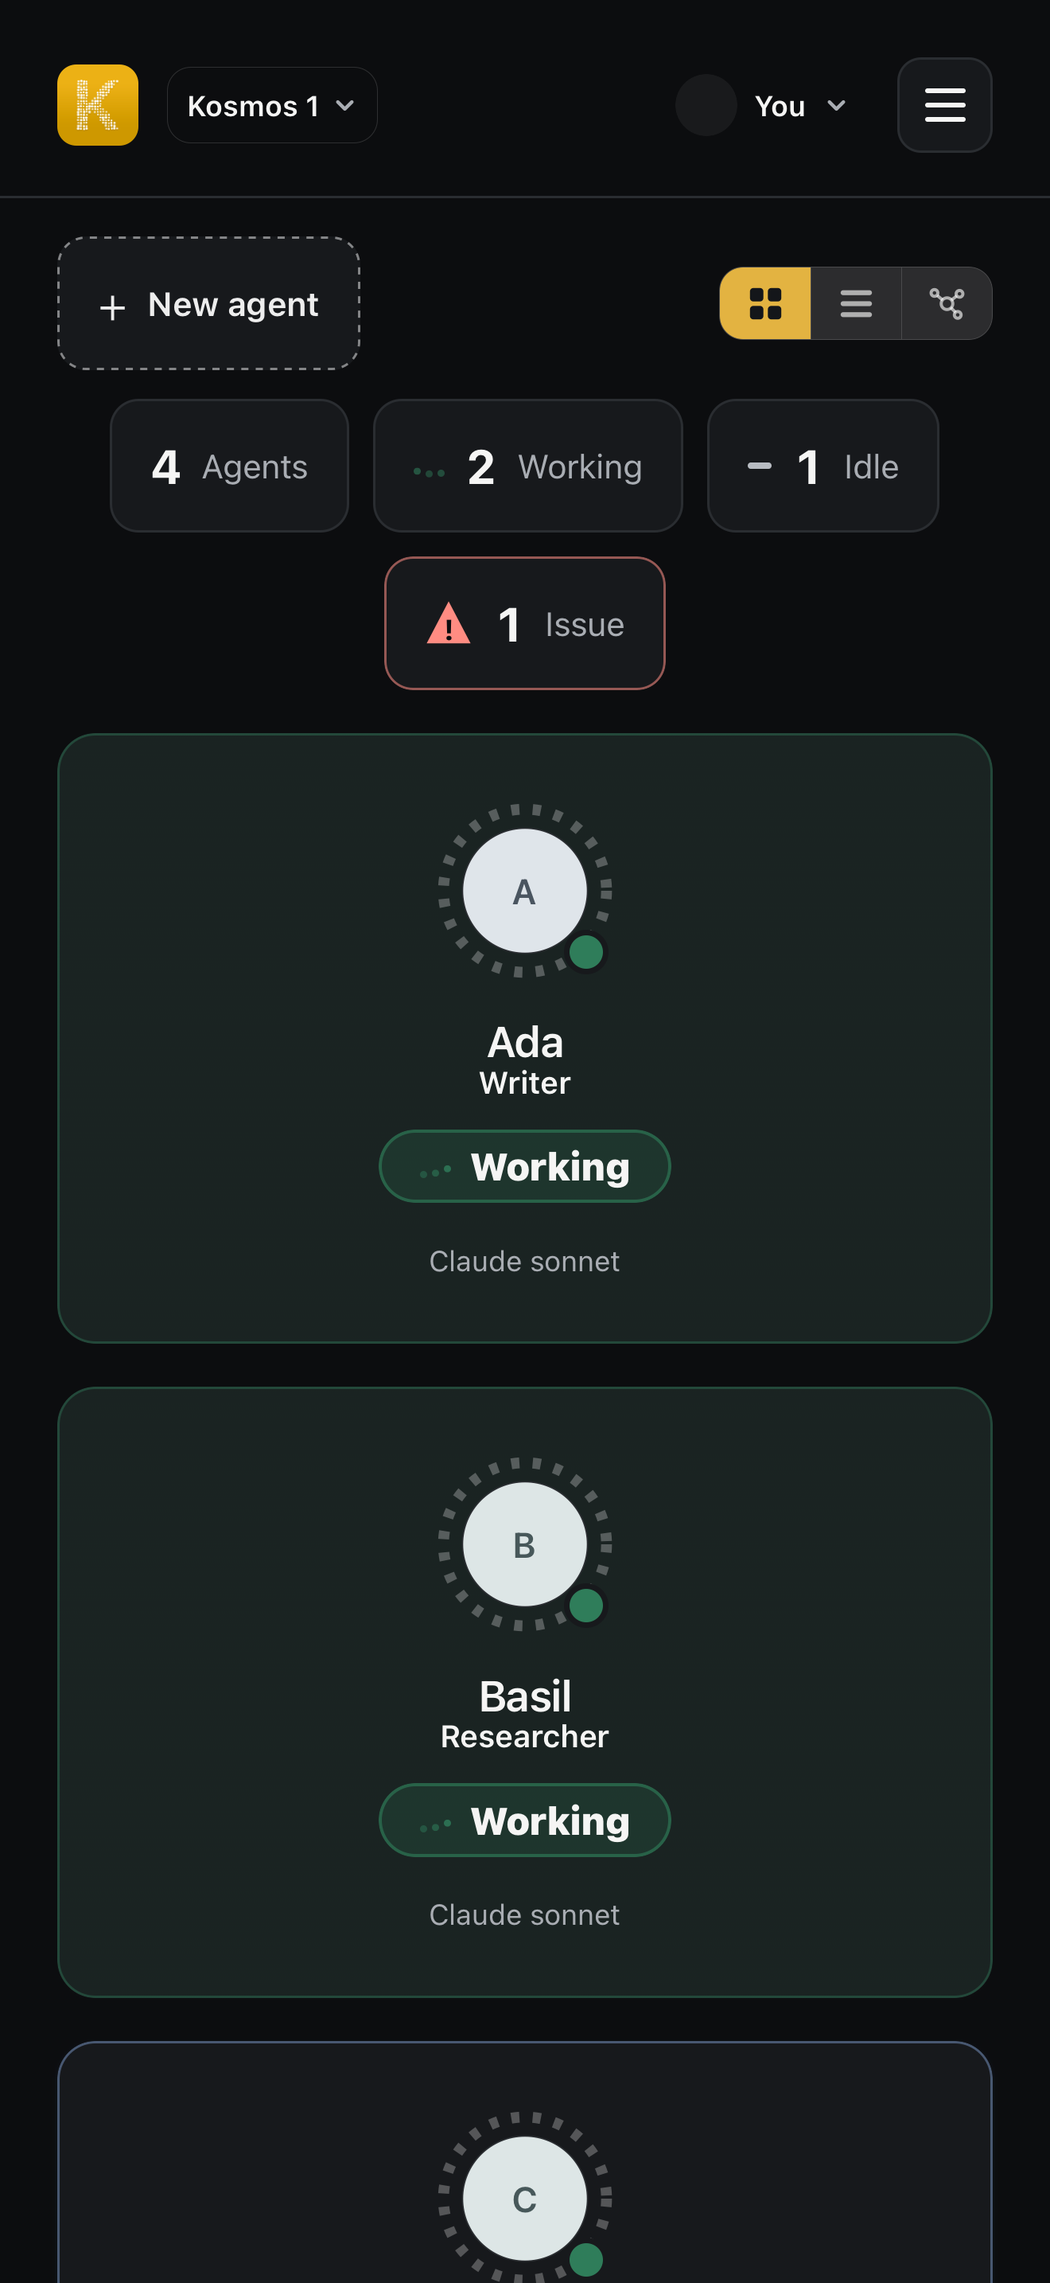
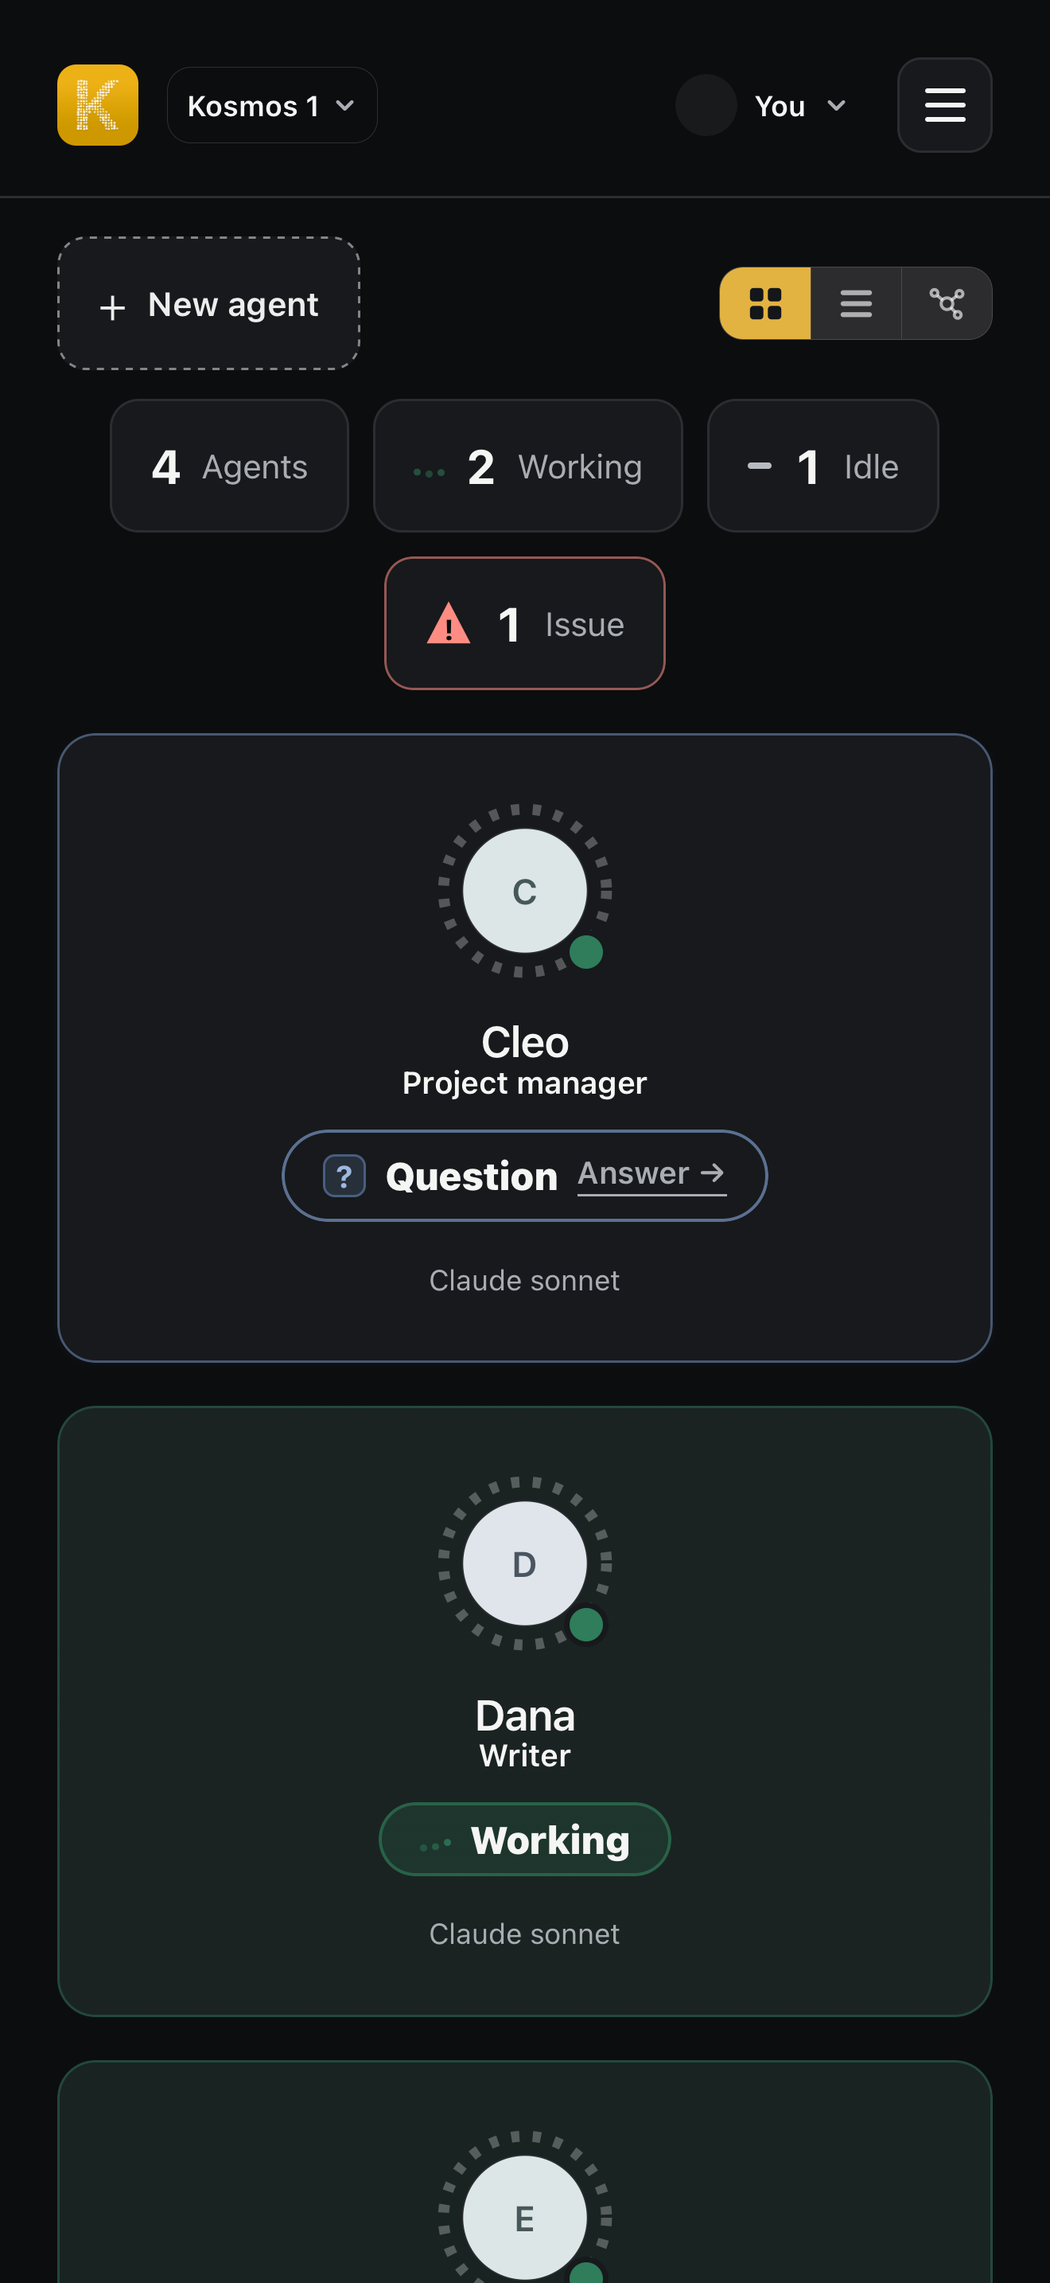
ios-store-assets-718 -- Cleo's question leads the home shot; re-shot with Liu Kang's m1064 fixes
The board lists agents by id, so the store fleet's asker now sorts first
(Cleo, Dana, Eli, Farah) and the screens take their DM and needs-you
agents from the data set; the sample set is unchanged. The browser-checks
slice and both leak arms pass against the changed tool.

diff --git a/docs/browser-checks/mobile-shots.js b/docs/browser-checks/mobile-shots.js
@@ -114,13 +114,13 @@ const SCREENS = [
     await page.click('button.vt[data-layout="list"][aria-label="Show agents as a list"]');
     await page.waitForSelector('button.vt[data-layout="list"][aria-pressed="true"][aria-label="Show agents as a list"]', { timeout: 5000 });
   } },
-  { name: 'agent-page', owner: 'Raiden', go: async (page) => {
-    await at(page, '?agent=ada');
+  { name: 'agent-page', owner: 'Raiden', go: async (page, data) => {
+    await at(page, '?agent=' + data.chatAgent);
     await page.waitForSelector('#panel-detail', { state: 'visible', timeout: 5000 });
   } },
   // Scorpion: an agent's chat.
-  { name: 'agent-chat', owner: 'Scorpion', go: async (page) => {
-    await at(page, '?agent=ada');
+  { name: 'agent-chat', owner: 'Scorpion', go: async (page, data) => {
+    await at(page, '?agent=' + data.chatAgent);
     await page.locator('#d-nav button[data-go="talk"]').first().click({ timeout: 5000 });
     await page.waitForSelector('#d-sec-talk', { state: 'visible', timeout: 5000 });
   } },
@@ -132,15 +132,15 @@ const SCREENS = [
     await page.waitForSelector('#pj-one-view', { state: 'visible', timeout: 8000 });
     await page.evaluate(() => { const r = document.querySelector('#pj-room'); if (r) r.scrollIntoView({ block: 'start' }); });
   } },
-  { name: 'ask-waiting', owner: 'Kano', go: async (page) => {
+  { name: 'ask-waiting', owner: 'Kano', go: async (page, data) => {
     // The board re-renders cards on its tick, so scroll inside the page.
-    await page.waitForSelector('.acard[data-agent="cleo"]', { timeout: 5000 });
-    await page.evaluate(() => document.querySelector('.acard[data-agent="cleo"]').scrollIntoView({ block: 'start' }));
+    await page.waitForSelector(`.acard[data-agent="${data.askAgent}"]`, { timeout: 5000 });
+    await page.evaluate((a) => document.querySelector(`.acard[data-agent="${a}"]`).scrollIntoView({ block: 'start' }), data.askAgent);
   } },
   /* Where a push tap lands: the needs-you agent's page, shot once it has
      settled (the conversation scrolls to the top after load). */
-  { name: 'push-landing', owner: 'Kano', go: async (page) => {
-    await at(page, '?tab=detail&agent=cleo');
+  { name: 'push-landing', owner: 'Kano', go: async (page, data) => {
+    await at(page, '?tab=detail&agent=' + data.askAgent);
     await page.waitForSelector('#panel-detail', { state: 'visible', timeout: 5000 });
     await page.waitForTimeout(1600);
   } },
@@ -183,24 +183,24 @@ const SCREENS = [
     await at(page, '?first-run=1');
     await page.waitForSelector('#firstrun', { state: 'visible', timeout: 5000 });
   } },
-  { name: 'agent-files', owner: 'unowned', go: async (page) => {
-    await at(page, '?tab=detail&agent=ada');
+  { name: 'agent-files', owner: 'unowned', go: async (page, data) => {
+    await at(page, '?tab=detail&agent=' + data.chatAgent);
     await page.waitForSelector('#d-files-list .pj-doc', { state: 'visible', timeout: 8000 });
     await page.evaluate(() => document.getElementById('d-files').scrollIntoView({ block: 'start' }));
   } },
-  { name: 'agent-files-all', owner: 'unowned', go: async (page) => {
-    await at(page, '?tab=detail&agent=ada');
+  { name: 'agent-files-all', owner: 'unowned', go: async (page, data) => {
+    await at(page, '?tab=detail&agent=' + data.chatAgent);
     await page.waitForSelector('#d-files-all', { state: 'visible', timeout: 8000 });
     await page.click('#d-files-all');
     await page.waitForSelector('#d-filesall-list .pj-doc', { state: 'visible', timeout: 5000 });
   } },
-  { name: 'agent-profile', owner: 'unowned', go: async (page) => {
-    await at(page, '?tab=detail&agent=ada');
+  { name: 'agent-profile', owner: 'unowned', go: async (page, data) => {
+    await at(page, '?tab=detail&agent=' + data.chatAgent);
     await page.locator('#d-nav button[data-go="profile"]').first().click({ timeout: 5000 });
     await page.waitForSelector('#d-sec-profile', { state: 'visible', timeout: 5000 });
   } },
-  { name: 'agent-instructions', owner: 'unowned', go: async (page) => {
-    await at(page, '?tab=detail&agent=ada');
+  { name: 'agent-instructions', owner: 'unowned', go: async (page, data) => {
+    await at(page, '?tab=detail&agent=' + data.chatAgent);
     await page.locator('#d-nav button[data-go="instr"]').first().click({ timeout: 5000 });
     await page.waitForSelector('#d-sec-instr', { state: 'visible', timeout: 5000 });
   } },
@@ -268,17 +268,24 @@ const LONG_REPLY = 'Here is the plan for tomorrow, in order. First I will finish
    buying the app see. Same claims as the sample, so every screen's `go` works
    unchanged; four agents, each in a state a customer should see (two working,
    one needing you, one idle), nothing stopped and nothing overlong. */
-/* Cleo first: the board lists cards in this order, and the agent waiting on
-   you is the one the first store shot must show above the fold. */
+/* The board lists agents by id, alphabetically (engine/status.js), and the agent
+   waiting on you is the one the first store shot must show above the fold, so
+   the asker's id sorts first. */
 const STORE_AGENTS = [
   { claim: 'cleo', title: '', name: 'Cleo', role: 'Project manager' },
-  { claim: 'ada', title: '⠋ Writing the product copy for the spring catalogue', name: 'Ada', role: 'Writer' },
-  { claim: 'basil', title: '⠙ Comparing supplier prices for the linen range', name: 'Basil', role: 'Researcher' },
-  { claim: 'dmitri', title: '', name: 'Dmitri', role: 'Bookkeeper' },
+  { claim: 'dana', title: '⠋ Writing the product copy for the spring catalogue', name: 'Dana', role: 'Writer' },
+  { claim: 'eli', title: '⠙ Comparing supplier prices for the linen range', name: 'Eli', role: 'Researcher' },
+  { claim: 'farah', title: '', name: 'Farah', role: 'Bookkeeper' },
 ];
 const DATA_SETS = {
   sample: {
     agents: AGENTS,
+    chatAgent: 'ada',   // the DM, files and profile screens
+    askAgent: 'cleo',   // the needs-you question and the push landing
+    projectAgents: ['ada', 'basil', 'cleo'],
+    room: [['cleo', [], 'Kick-off: the catalogue goes to print on the 3rd. Ada has copy, Basil has research, I have the printer.'],
+      ['basil', [], 'Competitor prices are in the shared sheet, tab "March". Two of them undercut us on the linen range by about 8%.'],
+      ['ada', ['cleo'], 'Copy for pages 1-8 is done. Pages 9-12 need the new photos before I can caption them, so I am parked on those until Thursday.']],
     chat: [
       ['you', 'Morning Ada. What is left on the catalogue?'],
       ['ada', 'Morning! Three things, and none of them are blocked.'],
@@ -290,15 +297,21 @@ const DATA_SETS = {
   },
   store: {
     agents: STORE_AGENTS,
+    chatAgent: 'dana',
+    askAgent: 'cleo',
+    projectAgents: ['dana', 'eli', 'cleo'],
+    room: [['cleo', [], 'Kick-off: the catalogue goes to print on the 3rd. Dana has copy, Eli has research, I have the printer.'],
+      ['eli', [], 'Competitor prices are in the shared sheet, tab "March". Two of them undercut us on the linen range by about 8%.'],
+      ['dana', ['cleo'], 'Copy for pages 1 to 8 is done. Pages 9 to 12 need the new photos before I can caption them, so I am parked on those until Thursday.']],
     chat: [
-      ['you', 'Morning Ada. How is the catalogue copy coming along?'],
-      ['ada', 'Pages 1 to 8 are written and checked against the price sheet.'],
+      ['you', 'Morning Dana. How is the catalogue copy coming along?'],
+      ['dana', 'Pages 1 to 8 are written and checked against the price sheet.'],
       ['you', 'Great. What is left?'],
-      ['ada', 'Pages 9 to 12 need the new photos before I can caption them. The shoot is on Thursday, so I will have the full draft to you on Friday morning.'],
+      ['dana', 'Pages 9 to 12 need the new photos before I can caption them. The shoot is on Thursday, so I will have the full draft to you on Friday morning.'],
       ['you', 'Perfect, thank you.'],
     ],
     ask: 'The printer sent two quotes for the catalogue: $1,240 in five working days, or $1,610 in two. Shall I accept the cheaper one?',
-    secondProject: { name: 'Quarterly accounts', agents: ['dmitri'], description: 'Close the quarter and send the accounts to the accountant.' },
+    secondProject: { name: 'Quarterly accounts', agents: ['farah'], description: 'Close the quarter and send the accounts to the accountant.' },
     projectDescription: 'Get the spring catalogue written, priced, photographed and to the printer by the 3rd.',
     /* A Mac that is set up, which the empty sandbox is not: each agent gets a
        launch job and its own folder with instructions, and your messages were
@@ -308,7 +321,7 @@ const DATA_SETS = {
     setUp: true,
     askInProject: true,
     /* Made from the screen, as a person makes a project, so the room does not open on
-       "Made by an agent or another program". And Ada's replies already read: the chat
+       "Made by an agent or another program". And the chat agent's replies already read: the chat
        screen marks them read on the board, so otherwise whichever theme is shot first
        shows an unread count and the other does not. */
     madeOnScreen: true,
@@ -342,7 +355,7 @@ function seedFiles(roots) {
   fs.writeFileSync(path.join(roots.DATA, 'fake-screen'), fleet.SCREEN && fleet.SCREEN.idle ? fleet.SCREEN.idle : 'Worked for 1m 02s\n> \n');
   const store = require(path.join(REPO, 'engine', 'store'));
   for (const a of AGENTS) {
-    const role = a.claim === 'ada' && LEAK_CONTROL === 'page' ? a.role + ', ' + PLANTED_EMAIL : a.role;
+    const role = a.claim === DATA.chatAgent && LEAK_CONTROL === 'page' ? a.role + ', ' + PLANTED_EMAIL : a.role;
     store.writeProfile(a.claim, { displayName: a.name, role });
   }
   require(path.join(REPO, 'engine', 'firstrun')).complete();
@@ -355,7 +368,7 @@ function seedFiles(roots) {
   const landed = (r, what) => { if (r && r.recorded === false) throw new Error('the seed could not write ' + what + ': ' + r.because); };
   DATA.chat.forEach(([who, text], i) => {
     const mine = who === 'you' ? (DATA.setUp ? { delivery: { state: 'placed' } } : {}) : { from: who };
-    landed(chat.appendMessage(chat.DIRECT, 'ada', { text, at: stamp(i + 1), ...mine }), "Ada's chat");
+    landed(chat.appendMessage(chat.DIRECT, DATA.chatAgent, { text, at: stamp(i + 1), ...mine }), 'the DM');
   });
   if (DATA.setUp) {
     const create = require(path.join(REPO, 'engine', 'create'));
@@ -375,7 +388,7 @@ function seedFiles(roots) {
   /* Ada's Files folder, for the agent-files screens: more rows than the
      agent page shows (AGENT_FILES_SHOWN, 10, so View All appears), one with
      a long name. */
-  const adaFiles = require(path.join(REPO, 'engine', 'dmfiles')).filesDir('ada');
+  const adaFiles = require(path.join(REPO, 'engine', 'dmfiles')).filesDir(DATA.chatAgent);
   fs.mkdirSync(adaFiles, { recursive: true });
   const fileNames = ['catalogue-copy-pages-1-to-8-final-reviewed-by-cleo.docx', 'prices.xlsx', 'photographer-brief.pdf',
     'notes.md', 'cover.png', 'linen-range.csv', 'spring-2026-print-schedule.pdf', 'draft-2.docx',
@@ -385,7 +398,7 @@ function seedFiles(roots) {
     const t = new Date(t0 + i * 60e3);
     fs.utimesSync(path.join(adaFiles, f), t, t);
   });
-  landed(require(path.join(REPO, 'engine', 'selfreport')).record('cleo', {
+  landed(require(path.join(REPO, 'engine', 'selfreport')).record(DATA.askAgent, {
     state: 'needs_you', because: DATA.ask,
   }), "Cleo's needs-you state");
 }
@@ -483,22 +496,20 @@ async function seed(base, roots) {
     if (!r.ok) throw new Error('seed ' + p + ' answered ' + r.status);
     return r.json().catch(() => ({}));
   };
-  const made = await post('/api/projects', { name: 'Launch the spring catalogue', agents: ['ada', 'basil', 'cleo'],
+  const made = await post('/api/projects', { name: 'Launch the spring catalogue', agents: DATA.projectAgents,
     ...(DATA.projectDescription ? { description: DATA.projectDescription } : {}) });
   const pid = made.project && made.project.id;
   if (!pid) throw new Error('seed: the board made no project');
   for (const s2 of ['Draft the product copy for every page', 'Check the prices against the spreadsheet', 'Book the photographer']) {
-    await post('/api/project/' + pid + '/tasks', { sentence: s2, who: 'ada' });
+    await post('/api/project/' + pid + '/tasks', { sentence: s2, who: DATA.chatAgent });
   }
   await post('/api/projects', DATA.secondProject);
   const t0 = Date.now() - 1800e3;
   const stamp = (min) => new Date(t0 + min * 60e3).toISOString();
   const lines = [
-    { kind: 'post', id: 'm1', project: pid, from: 'cleo', to: [], text: 'Kick-off: the catalogue goes to print on the 3rd. Ada has copy, Basil has research, I have the printer.', at: stamp(1), outcomes: {} },
-    { kind: 'post', id: 'm2', project: pid, from: 'basil', to: [], text: 'Competitor prices are in the shared sheet, tab "March". Two of them undercut us on the linen range by about 8%.', at: stamp(4), outcomes: {} },
-    { kind: 'post', id: 'm3', project: pid, from: 'ada', to: ['cleo'], text: 'Copy for pages 1-8 is done. Pages 9-12 need the new photos before I can caption them, so I am parked on those until Thursday.', at: stamp(9), outcomes: {} },
-    { kind: 'reaction', project: pid, of: 'm3', emoji: '👍', op: 'add', from: 'cleo', at: stamp(10) },
-    { kind: 'reaction', project: pid, of: 'm2', emoji: '🔥', op: 'add', from: 'ada', at: stamp(11) },
+    ...DATA.room.map(([from, to, text], i) => ({ kind: 'post', id: 'm' + (i + 1), project: pid, from, to, text, at: stamp([1, 4, 9][i]), outcomes: {} })),
+    { kind: 'reaction', project: pid, of: 'm3', emoji: '👍', op: 'add', from: DATA.askAgent, at: stamp(10) },
+    { kind: 'reaction', project: pid, of: 'm2', emoji: '🔥', op: 'add', from: DATA.chatAgent, at: stamp(11) },
   ];
   /* The log lives in the store's own root (engine/messages.js: store.ROOT, which is
      DATA/<app>), not at the top of DATA: written there, the room showed no posts at all. */
@@ -506,12 +517,12 @@ async function seed(base, roots) {
   fs.appendFileSync(path.join(storeRoot, 'messages.jsonl'), lines.map((l) => JSON.stringify(l)).join('\n') + '\n');
   /* The store set's question names its project, as an agent on a project would, so it
      lights that project rather than counting as a needs-you with no project. */
-  if (DATA.dmRead) await post('/api/agent/ada/seen');
+  if (DATA.dmRead) await post('/api/agent/' + DATA.chatAgent + '/seen');
   if (DATA.askInProject) {
-    const r = require(path.join(REPO, 'engine', 'selfreport')).record('cleo', { state: 'needs_you', because: DATA.ask, project: pid });
+    const r = require(path.join(REPO, 'engine', 'selfreport')).record(DATA.askAgent, { state: 'needs_you', because: DATA.ask, project: pid });
     if (r && r.recorded === false) throw new Error('the seed could not write Cleo\'s needs-you state: ' + r.because);
   }
-  return { projectId: pid };
+  return { projectId: pid, chatAgent: DATA.chatAgent, askAgent: DATA.askAgent };
 }
 
 /* Before ANY screenshot: a sealed board must have no accounts at all. The page

diff --git a/.claude/plans/ios-store-assets-718.md b/.claude/plans/ios-store-assets-718.md
@@ -15,11 +15,18 @@ Card: kosmos #718 (Liu Kang m1052, step 2).
 ## Approach
 - docs/browser-checks/mobile-shots.js (the sanctioned screenshot tool, with its leak guard) gains
   `--data store` (a tidy four-agent fleet on the same claims, so every screen's `go` works),
-  `--scale device`, and an `appstore` size (440x956 @3x) outside the default sweep. Defaults are
-  unchanged, so tools/browser-checks.sh's slice and leak arms run exactly as before.
+  `--scale device`, and an `appstore` size (440x956 @3x) outside the default sweep. The screens
+  take their DM and needs-you agents from the data set (sample: ada and cleo, as before).
+  The one default change is the room-posts path below, so the browser-checks slice and both leak
+  arms were re-run against the changed tool (see Validation).
+- The store fleet is Cleo (project manager, asks the question), Dana (writer), Eli (researcher),
+  Farah (bookkeeper, idle). The board lists agents alphabetically by id (engine/status.js), so the
+  asker's id sorts first and her card leads the home shot (Liu Kang m1064).
 - The store set makes the sandbox look like a Mac that is set up: launch plists and worker
-  folders with CLAUDE.md per agent, delivered DMs, a project description (so no brief-pending
-  note), and Cleo's question tied to the project (so no "No project" tile). The one thing that
+  folders with CLAUDE.md per agent, delivered DMs read up front (the chat screen marks them read
+  mid-run, which made light and dark disagree), projects made as the screen makes them (so the
+  room has no "Made by an agent or another program" line), a project description (so no
+  brief-pending note), and Cleo's question tied to the project (so no "No project" tile). The one thing that
   cannot be made real is a Claude account (the leak guard forbids one), so in the page only the
   /api/status answer's `connection` is patched to connected; every other field is the board's.
 - Found and fixed on the way: the harness wrote room posts to DATA/messages.jsonl, but the board
@@ -31,6 +38,9 @@ Card: kosmos #718 (Liu Kang m1052, step 2).
 ## Validation
 - shoot.sh: VERDICT: PASS (8 shots, 0 overflow, 0 errors), run behind the fleet heavy gate
   (two clear reads 60s apart, re-checked every 10s during the run).
+- Same gated run, against the changed tool: the tools/browser-checks.sh mobile-shots slice
+  (home, nav-menu, agents-list, settings-accounts, --strict) exits 0 with 8 shots, 0 overflow;
+  the account and page leak arms each exit 3 with their own guard's message.
 - check-listing.sh: VERDICT: PASS (field lengths, https URLs, no em dash, 1320x2868 no alpha).
 - Every shot inspected by eye (contact sheet sent to Liu Kang).
 
@@ -38,5 +48,6 @@ Card: kosmos #718 (Liu Kang m1052, step 2).
 - WebKit is not the iPhone app; the shots show the board's content, not a phone.
 - The connection patch is the one place the pictures show something the sandbox itself does not
   say. It shows what a set-up Mac shows, and README.md says so plainly.
-- Project room shot opens on the folder's provenance line ("Made by an agent or another
-  program"); home shot has Cleo's needs-you card just below the fold.
+- The "you" avatar in the chat is the board's plain circle, since the sandbox has no picture.
+- Home shows a red "1 Issue" tile for Cleo's question; that is how the board counts a
+  needs-you today.

diff --git a/ios/store/README.md b/ios/store/README.md
@@ -74,9 +74,9 @@ scales it down for smaller iPhones. In upload order:
 
 | # | File | What it shows |
 |---|---|---|
-| 1 | `01-home.png` | The whole team at a glance: who is working, who is idle, and the one agent that needs you |
+| 1 | `01-home.png` | The whole team at a glance, with Cleo first: her question is waiting, and the others are working or idle |
 | 2 | `02-push-landing.png` | Where a notification tap lands: Cleo's question about the printer quote, ready to answer |
-| 3 | `03-agent-chat.png` | A direct conversation with Ada about the catalogue |
+| 3 | `03-agent-chat.png` | A direct conversation with Dana, the writer, about the catalogue |
 | 4 | `04-project-room.png` | A project room: the agents on the spring catalogue talking to each other |
 
 **How they were made.** `ios/store/shoot.sh` runs the shared phone screenshot
